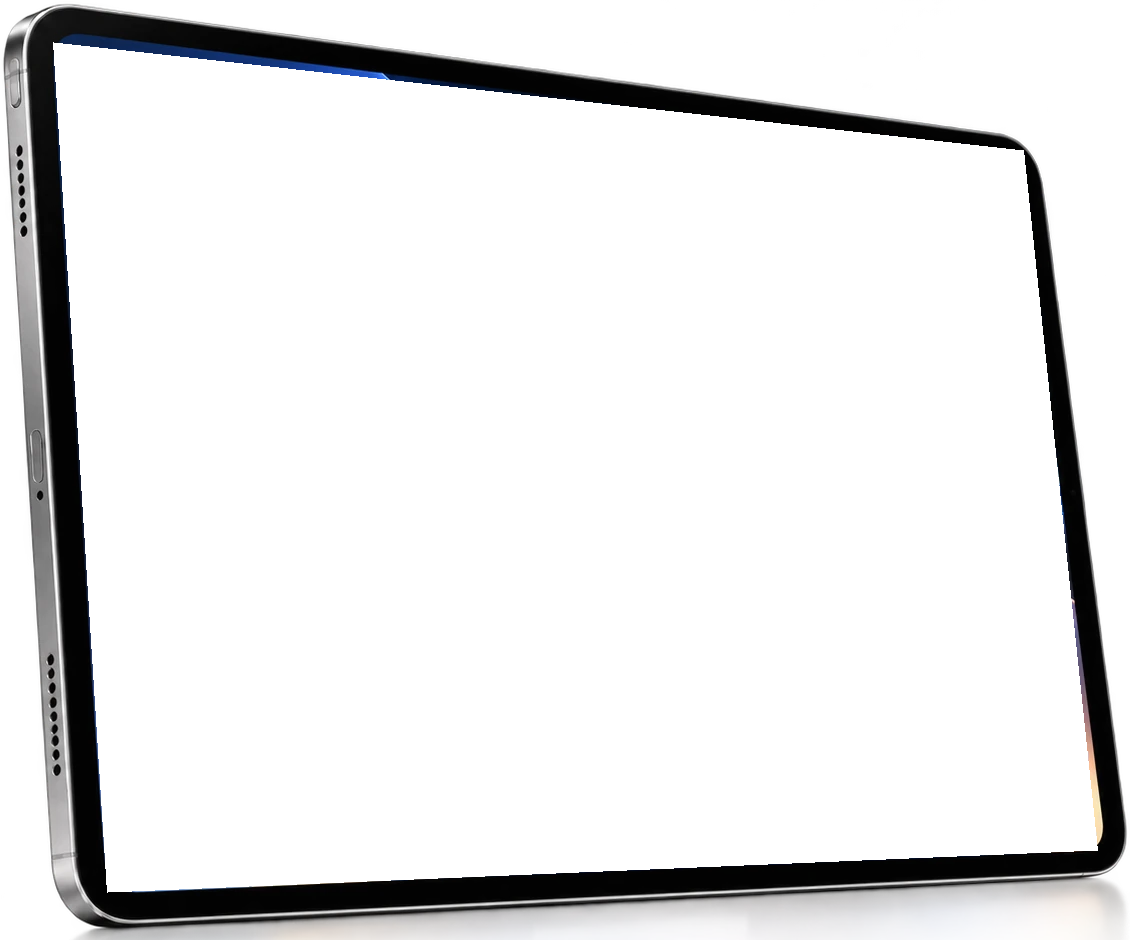
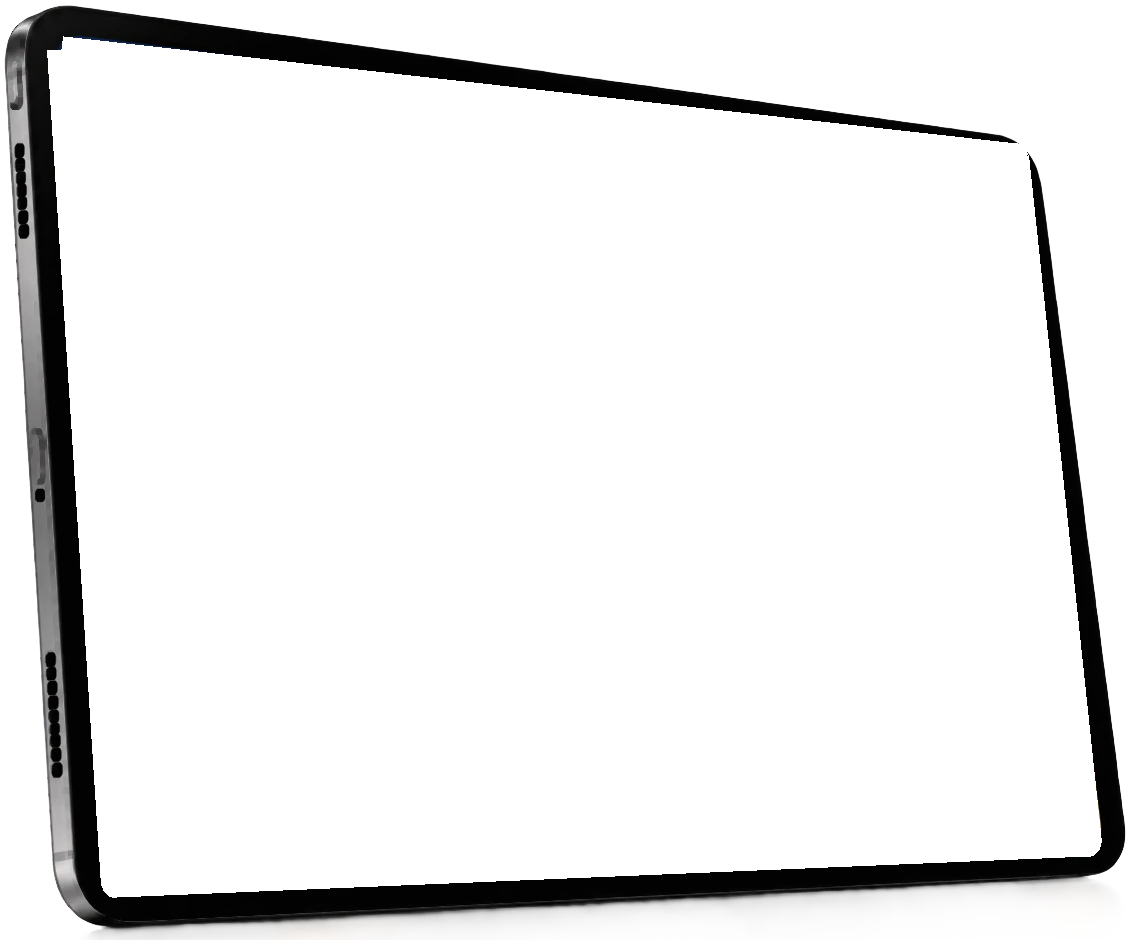
today.html: clean tablet edges, rounded screen cut-out
The source photo had a semi-transparent white halo along the tablet's
silhouette: faint alpha is now zeroed, the edge eroded a pixel and
edge pixels darkened, so nothing white shows against the page. The
screen cut-out has rounded corners and sits 3px outside the measured
screen edge, with the iframe quad 5px outside it, so the black bezel
overlaps the tour by 2px and no wallpaper survives at the corners.

Changed region(s): [[0.0, 0.0, 1.0, 1.0], [0.9292, 0.4011, 0.9602, 0.7404], [0.8982, 0.1543, 0.9292, 0.4011]]

diff --git a/vsl-retro/today.html b/vsl-retro/today.html
@@ -15,7 +15,7 @@
   .stage { position: absolute; left: 50%; top: 50%; width: 1130px; height: 940px; margin: -470px 0 0 -565px; transform-origin: center center; }
   .photo { position: absolute; inset: 0; width: 1130px; height: 940px; display: block; pointer-events: none; z-index: 2; }
   .screen { position: absolute; left: 0; top: 0; width: 1024px; height: 768px; transform-origin: 0 0; z-index: 1;
-            transform: matrix3d(1.15918, 0.136541, 0, 0.000207151, 0.0652888, 1.06489, 0, -4.695e-05, 0, 0, 1, 0, 53, 42, 0, 1); overflow: hidden; border-radius: 26px; background: #000; }
+            transform: matrix3d(1.16695, 0.136101, 0, 0.000206456, 0.0655734, 1.07361, 0, -4.65666e-05, 0, 0, 1, 0, 49.1978, 38.753, 0, 1); overflow: hidden; background: #000; }   /* the bezel's rounded cut-out defines the visible shape */
   .screen iframe { display: block; width: 1024px; height: 768px; border: 0; background: #000; }
 </style>
 </head>
